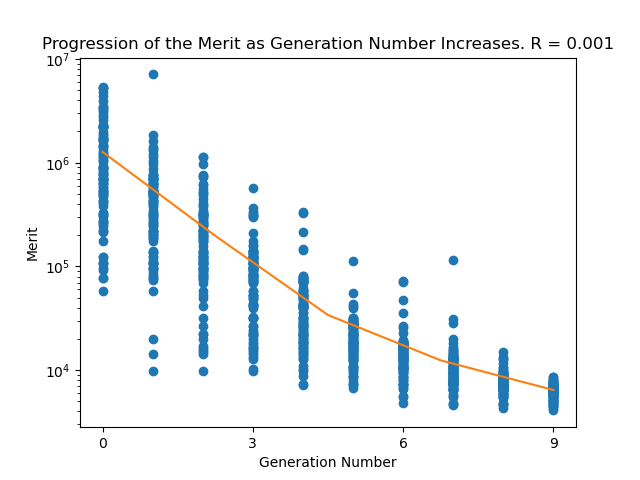
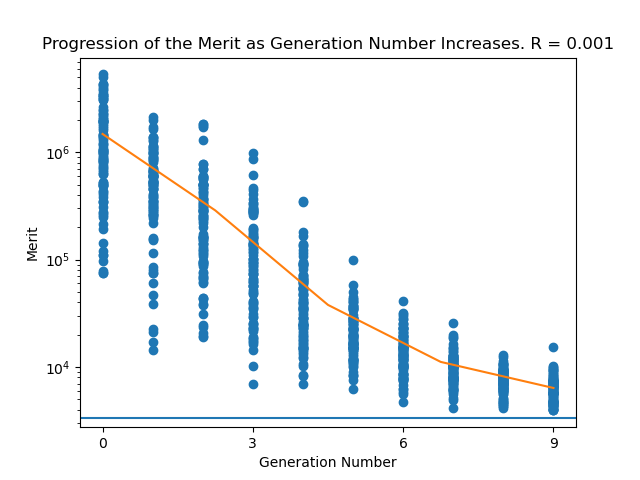
Created sexual method

diff --git a/generationclass.py b/generationclass.py
@@ -185,6 +185,7 @@ class Generation:
         -----
         The method takes the top 50% of performers, and clones them into the next generation. Then, the 'genes' of these individuals (i.e., their Individual attributes) are collected into a pool, randomised, and new individuals are made. During this process, `mutation_stage` is called.
         """
+
         top50 = []
 
         # Dummy list for mixing parameters. If you can figure out what makes
@@ -200,6 +201,8 @@ class Generation:
 
         if self.num_of_individuals % 2 != 0:  # if odd
             raise ValueError("Error! Number of individuals must be even.")
+        if self.num_of_individuals % 4 != 0:  # if odd
+            raise ValueError("Error! Need parents!")
 
         # Iterates through half of the population list and appends it to the
         # top50 and newborn lists.
@@ -208,21 +211,12 @@ class Generation:
             # Add the top 50% to the gene pool
             top50.append(self.population[i])
 
-            # Clone the top 50% performers
-            self.newborn.append(self.population[i])
+        random.shuffle(top50)
 
-            # For each individual in the top50 list, append parameter1 to the
-            # first sublist in the mixing list. Append parameter2 to the second
-            # sublist in the mixing list, etc.
-            for j, param in enumerate(self.parameter_mixing_list):
-                param.append(top50[i].parameter_list[j])
+        for i in range(self.num_of_individuals // 4):  # Creates the other individuals for the new population, by drawing characteristics from the gene pool, and mutating at random
+            self.mutation_stage(History,top50)
 
-        for i in range(
-                self.num_of_individuals //
-                2):  # Creates the other individuals for the new population, by drawing characteristics from the gene pool, and mutating at random
-            self.mutation_stage(History)
-
-    def mutation_stage(self, History):
+    def mutation_stage(self, History,top50):
         """Creates new individuals based on a gene pool of prior individuals, and mutates occassional parameters.
 
         Parameters
@@ -230,23 +224,34 @@ class Generation:
         History : list
             A list containing all unique individuals.
         """
+        
+        parent1 = top50.pop()
+        parent2 = top50.pop()
 
-        # Shuffle each sublist in the mixing list.
-        for j in self.parameter_mixing_list:
-            random.shuffle(j)
+        genes = self.parameter_mixing_list
 
-        new_individual = Individual(
-            *
-            [
-                random.uniform(
-                    *
-                    val) if np.random.random() <= self.mutation_rate else self.parameter_mixing_list[i].pop() for i,
-                val in enumerate(
-                    self.changeable_parameters)])  # Creates the new individual by mutation and breeding
+        for i in range(len(self.changeable_parameters)):
+            genes[i].append(parent1.parameter_list[i])
+            genes[i].append(parent2.parameter_list[i])
+            genes[i].append(parent1.parameter_list[i])
+            genes[i].append(parent2.parameter_list[i])
 
-        for j in History:  # Iterate over History list to see if the individual has been used before. If it has, reuse the individual.
-            if new_individual.parameter_list == j.parameter_list:
-                new_individual = j
-                break
+        for i in range(len(self.changeable_parameters)):
+            random.shuffle(genes[i])
+        
+        for i in range(4):
+            new_individual = Individual(
+                *
+                [
+                    random.uniform(
+                        *
+                        val) if np.random.random() <= self.mutation_rate else self.parameter_mixing_list[i].pop() for i,
+                    val in enumerate(
+                        self.changeable_parameters)])  # Creates the new individual by mutation and breeding
 
-        self.newborn.append(new_individual)
+            for j in History:  # Iterate over History list to see if the individual has been used before. If it has, reuse the individual.
+                if new_individual.parameter_list == j.parameter_list:
+                    new_individual = j
+                    break
+
+            self.newborn.append(new_individual)

diff --git a/gaclass.py b/gaclass.py
@@ -131,6 +131,7 @@ class GeneticAlgorithm:
 
         plt.xlabel("Generation Number")
         plt.ylabel("Merit")
+        plt.axhline(y=3360)
         plt.title(
             f"Progression of the Merit as Generation Number Increases. R = {self.generation_list[-1].mutation_rate}")
         plt.savefig("MeritProgression.png")
